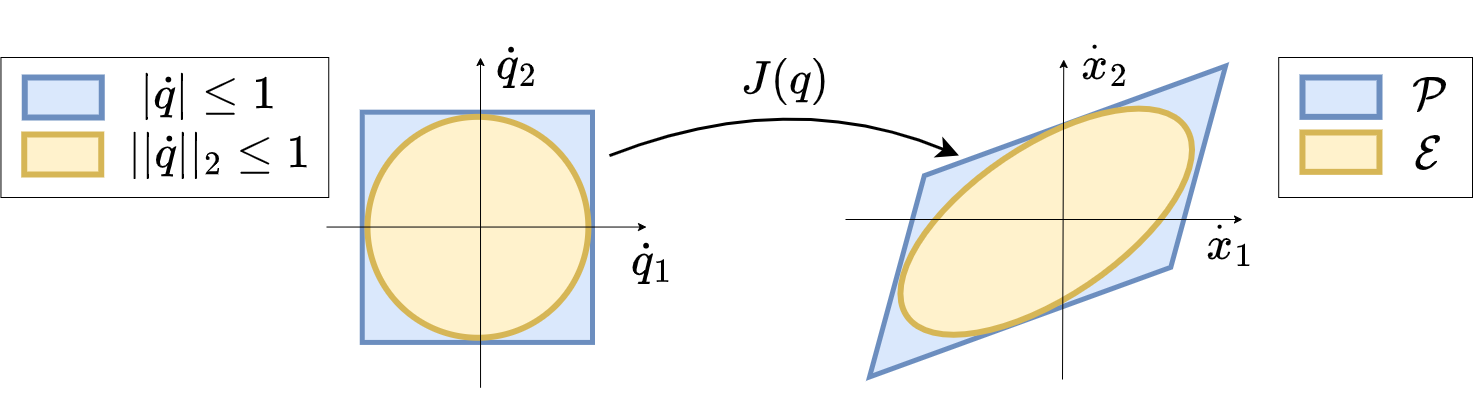
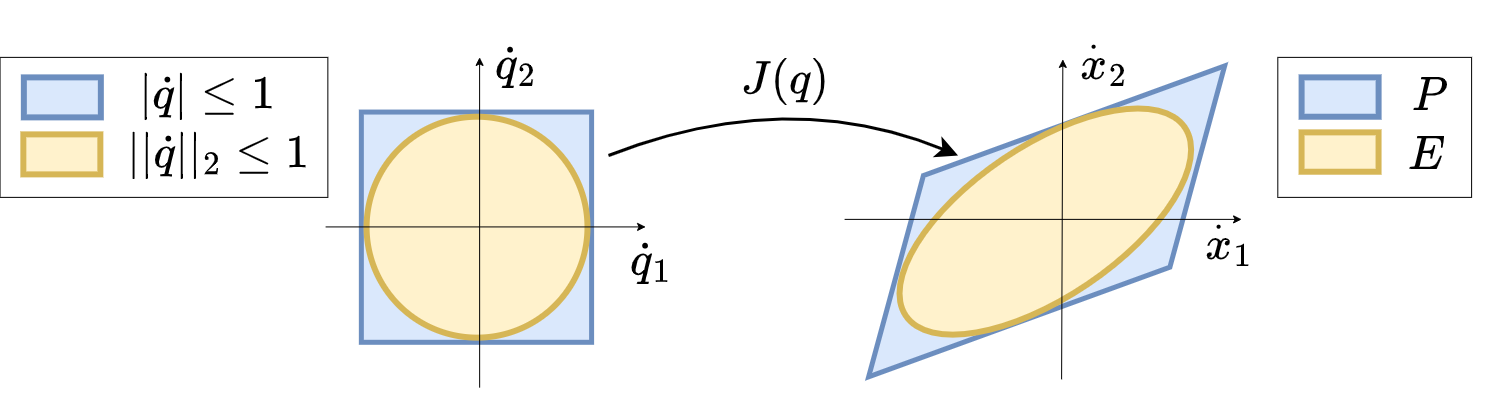
added discussion about polytopes and ellipsoids

diff --git a/paper/paper.md b/paper/paper.md
@@ -38,7 +38,7 @@ Beyond the characterization of human physical capabilities, as today's collabora
 
 There are many different metrics available in the literature that might be used to characterize physical abilities: force capacity, velocity capacity, acceleration capacity, accuracy, stiffness etc. Most of these metrics can be represented by two families of geometric shapes: ellipsoids [@yoshikawa1985manipulability] and polytopes [@chiacchio1997force]. These metrics are traditionally important tools for off-line analysis purposes (workspace design, human motion and ergonomics analysis) and recently, they have shown a great potential to be used for interactive online applications, to be integrated in robot control strategies or as a visual feedback to the operator. 
 
-Ellipsoid metrics are often used for evaluating the manipulability of the robot's end-effector. The manipulability ellipsoid is a geometric shape that represents the robot's ability to move with in the task space. The manipulability ellipsoid is defined by its principal axis that can be found very efficiently using the singular value decomposition (SVD) of the robot's Jacobian matrix [@yoshikawa1985manipulability]. Due to their computational efficiency and intuitive visualisation, they have been used in many different applications, such as robot control, workspace design, robot design, etc. Therefore there are several open-source packages that implement the manipulability ellipsoid evaluation and visualisation, such as `MMC` [@Haviland2020Maximising], `manipulability_metrics` [@manipulability_metrics], `Manipulability` [@manipulability;Jaquier2021Geometry].However, all of these packages are limited to the evaluation of the manipulability ellipsoid, representing the velocity capacity, and they do not provide tools for evaluating other ellipsoid metrics, such as force capacity, acceleration capacity, etc. Additionally these software packages are often developed for the use with a specific robotics library, such as `robotic-toolbox` [@corke2021not] or `ROS` [@carpentier2019pinocchio], and they are not trivial to integrate with other libraries.
+Ellipsoid metrics are often used for evaluating the manipulability of the robot's end-effector. The manipulability ellipsoid is a geometric shape that represents the robot's ability to move with in the task space. The manipulability ellipsoid is defined by its principal axis that can be found very efficiently using the singular value decomposition (SVD) of the robot's Jacobian matrix [@yoshikawa1985manipulability]. Due to their computational efficiency and intuitive visualisation, they have been used in many different applications, such as robot control, workspace design, robot design, etc. Therefore there are several open-source packages that implement the manipulability ellipsoid evaluation and visualisation, such as `MMC` [@Haviland2020Maximising], `manipulability_metrics` [@manipulability_metrics], `Manipulability` [@manipulability;@Jaquier2021Geometry].However, all of these packages are limited to the evaluation of the manipulability ellipsoid, representing the velocity capacity, and they do not provide tools for evaluating other ellipsoid metrics, such as force capacity, acceleration capacity, etc. Additionally these software packages are often developed for the use with a specific robotics library, such as `robotic-toolbox` [@corke2021not] or `ROS` [@carpentier2019pinocchio], and they are not trivial to integrate with other libraries.
 
 Even though different efficient tools for evaluating ellipsoids are widely available in the literature and open-source community, the tools for evaluating polytopes are still relatively scarce. The main reason for this is that the polytopes are in general more complex to evaluate and manipulate than ellipsoids. However, the polytopes are much more accurate representation of the true limits. Additionally, polytopes are easy to visualize, as they are essentially a triangulated meshes, and they can be easily integrated in the robot control strategies, as they can be expressed as a set of linear constraints. 
 
@@ -48,20 +48,49 @@ Therefore, this paper presents a Python `pycapacity` package in an effort to pro
 
 `pycapacity` has been used in several scientific papers, for real-time control of collaborative carrying using two Franka Emika Panda robots [@Skuric2021], for developing an assist-as-needed control strategy for collaborative carrying task of the human operator and the Franka robot [@Skuric2022]. The package has also been used to calculate the approximation of the robot's reachable space using convex polytope [@skuric2023]. On the other hand, the package has been used for the biomechanical calibration of the human musculoskeletal model [@laisne2023genetic].
 
-# Ellipsoids and polytopes
-
-![An example manipulability polytope and ellipsoid geometry for a planar $m=2$ robot with $n=2$. The difference between the joint space limits for ellipsoid described with $||\dot{\boldsymbol{q}}||_2\leq1$ (orange) and the range limits $\boldsymbol{-1}\leq\dot{\boldsymbol{q}}\leq\boldsymbol{1}$ (blue) is shown on the right. The difference in obtained achievable task space velocity $\dot{\boldsymbol{x}}$ polytope $\mathcal{P}$ (blue) and ellipsoid $\mathcal{E}$ (orange) is shown on the right plot. The plots show that both in joint and task space the ellipsoid metric is an underestimation of the true robot's capacity.](ellip_poly.png){ width=100% }
+# Ellipsoids and polytopes as physical ability metrics
 
 
-\begin{equation}\label{eq:hpsm}
-P = \{ \dot{x} ~|~ \dot{x} = J(\boldsymbol{q})\dot{q}, \quad -1 \leq \dot{q} \leq 1 \}
+In robotics, different task space physical ability metrics establish the relationship between different limits of robot's actuators (joint positions, velocities, torques, etc.), its kinematics and dynamics, and the achievable sets of different task related physical quantities, such as achievable positions, velocities, forces and similar. Similar metrics can be established for humans as well, by leveraging their musculoskeletal models. Where the humans in addition to the joint limits (joint positions and velocities) have additional limits due to their using their muscles as actuators (contraction forces and velocities).
+
+When it comes to characterizing these achievable sets, the two most common approaches are using ellipsoids and polytopes. Ellipsoids are often used to represent the robot's velocity capacity, so called manipulability, while polytopes are used to represent the robot's force capacity. However, both ellipsoids and polytopes can be used to represent any of the task space physical ability.
+
+![An example manipulability polytope and ellipsoid geometry for a planar $m=2$ robot with $n=2$. The difference between the joint space limits for ellipsoid described with $||\dot{{q}}||_2\leq1$ (orange) and the range limits ${-1}\leq\dot{{q}}\leq{1}$ (blue) is shown on the right. The difference in obtained achievable task space velocity $\dot{{x}}$ polytope ${P}$ (blue) and ellipsoid ${E}$ (orange) is shown on the right plot. The plots show that both in joint and task space the ellipsoid metric is an underestimation of the true robot's capacity.](ellip_poly.png){ width=100% }
+
+One of the most well known ellipsoid metrics is the manipulability ellipsoid [@yoshikawa1985manipulability], which is defined as the set of all achievable task space velocities ${\dot{x}}$ for a given robot configuration ${q}$ and joint velocity limits ${\dot{q}}$, and it can be expressed as:
+
+\begin{equation}\label{eq:manip_ellipsoid}
+E = \{ \dot{x} ~|~ \dot{x} = J({q})\dot{q}, \quad ||\dot{q}||_2 \leq 1 \}
 \end{equation}
 
+The equivalent polytope representation of the manipulability ellipsoid is the manipulability polytope, which is defined as the set of all achievable task space velocities ${\dot{x}}$ for a given robot configuration ${q}$ and joint velocity limits ${\dot{q}}$, and it can be expressed as:
 
-\begin{equation}\label{eq:hpsm}
-P = \{ \dot{x} ~|~ \dot{x} = J(\boldsymbol{q})\dot{q}, \quad ||\dot{q}||_2 \leq 1 \}
+\begin{equation}\label{eq:manip_polytope}
+P = \{ \dot{x} ~|~ \dot{x} = J({q})\dot{q}, \quad -1 \leq \dot{q} \leq 1 \}
 \end{equation}
 
+Figure 1. illustrates the difference between the manipulability ellipsoid and polytope for a planar robot with two joints. The manipulability ellipsoid is an underestimation of the true robot's capacity, as it considers that the robot's velocity limits have the shape of a sphere, while in reality the robot's velocity limits are a cube. The manipulability polytope is a more accurate representation of the robot's capacity, as it considers the true shape of the robot's velocity limits. 
+
+More generally, polytope based representations of different physical abilities present the exact solution both for robots and for human musculoskeletal models, while ellipsoids present an approximation. 
+Figure 2. shows the difference between the force ellipsoid and polytope [@chiacchio1997force] for one configuration of the Franka Emika Panda robot.
+
+Ellipsoids, however, are much more present in the literature, as their computation is much faster than the computation of polytopes. 
+
+## Evaluating ellipsoids
+
+Evaluating ellipsoids is a computationally efficient task, as it can be done using the singular value decomposition (SVD) [@yoshikawa1985manipulability]. Ellipsoids can be fully defined using its principal axis and principal axis lengths. Once they are known, the ellipsoid can be easily visualized and used for further analysis.
+
+This package provides tools for evaluating several common ellipsoid metrics for robots and humans, such as velocity (manipulability), force and acceleration, and it provides a set of tools for their easy visualization. 
+
+## Evaluating polytopes
+
+Evaluating polytopes consists in finding either the minimal set of their vertices, $\mathcal{V}$-representation, or the minimal set of the half-planes defining their faces , $\mathcal{H}$-representation. The $\mathcal{V}$-representation is often used for visualization purposes, while the $\mathcal{H}$-representation is often integrated in different optimization problems, as it can be represented as a set of linear inequalities.
+
+However, finding the $\mathcal{V}$-representation or the $\mathcal{H}$-representation of a polytope is a computationally expensive task, relying on different vertex and facet enumeration algorithms [@fukuda2004frequently]. The computational complexity of these algorithms depends on the polytope formulation, the dimensionality of the input (number of robot's joints or human muscles) and output spaces (1D, 2D, 3D or 6D Cartesian space) and the complexity of the polytope geometry (number of vertices and faces). 
+
+Therefore, polytope evaluation is often a bottleneck in the computation of different physical ability metrics, especially for human musculoskeletal models, which have a large number of degrees of freedom and a large number of muscles. Furthermore, due to the inherent complexity of the polytope evaluation algorithms, finding the appropriate algorithm for a given polytope formulation and dimensionality of the input and output spaces is not a trivial task.
+
+This package aims to provide a selection of algorithms for polytope evaluation, capable of evaluating common physical ability polytopes in an easy to use and efficient way. These algorithms are implemented in Python and can be used as standalone tools as well. Additionally, the package provides tools for easy visualization the 2D and 3D polytopes.
 
 # Implemented polytope evaluation algorithms
 
@@ -71,7 +100,7 @@ This package implements several algorithms for polytope evaluation
 - Vertex Enumeration Algorithm (VEPOLI$^2$)
 - Iterative Convex Hull Method (ICHM)
 
-These algorithms are all implemented in Python and used to evaluate different polytope based physical ability metrics. Additionally the algorithms are available to the users to be used standalone as well.
+These algorithms are all implemented in Python and used to evaluate different polytope based physical ability metrics. Additionally, the algorithms are available to the users to be used standalone as well.
 
 ## Hyper-plane shifting method
 
